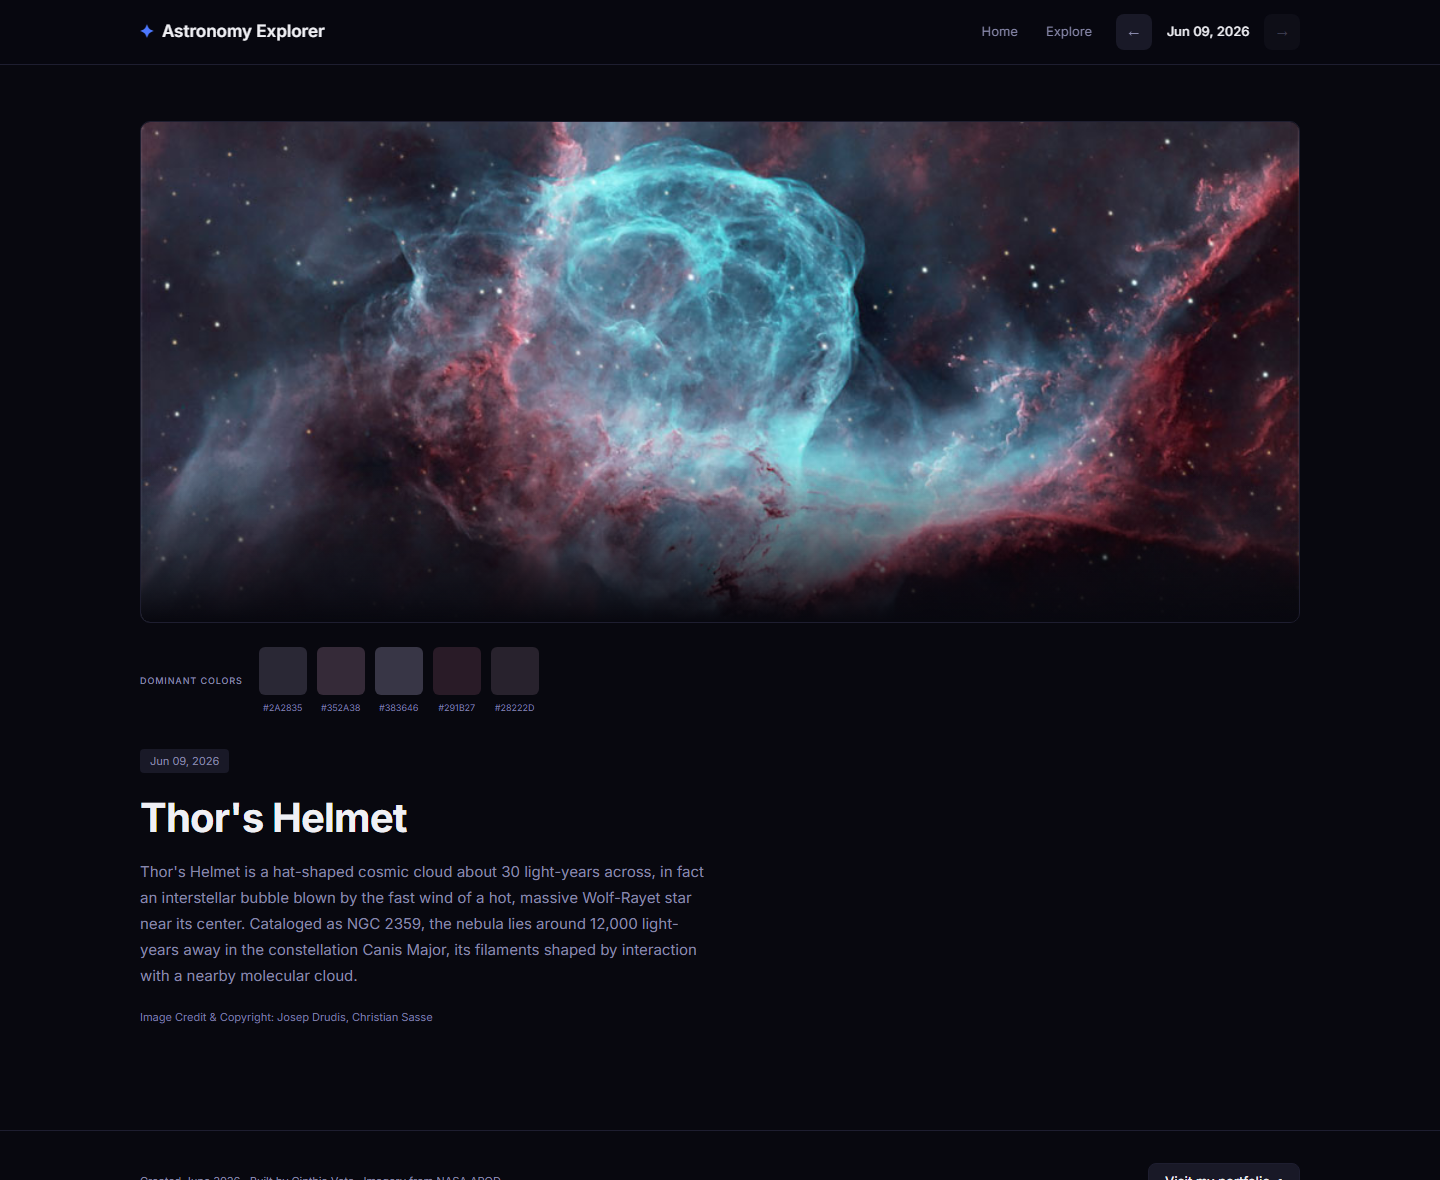
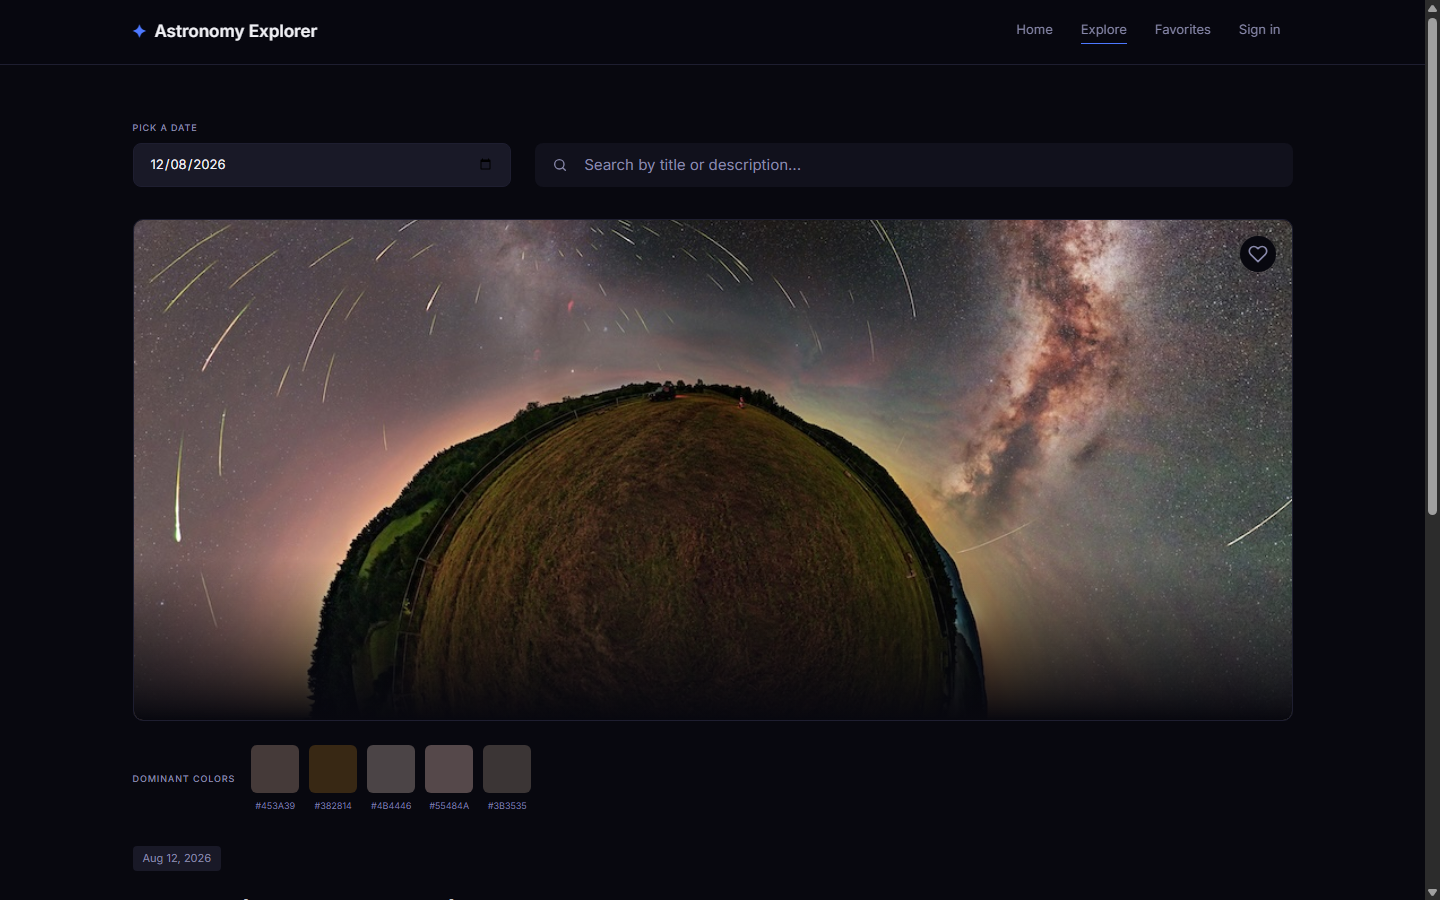
docs: refresh public project README
- describe the shipped portfolio experience and high-level architecture
- replace the obsolete screenshot with an anonymous current Explorer capture
- record P4-W2 completion and verification evidence

diff --git a/README.md b/README.md
@@ -1,107 +1,114 @@
 # Astronomy Picture Explorer
 
-Explore NASA's **Astronomy Picture of the Day (APOD)** in a fast, accessible web
-app: browse the picture of the day, step through the archive by date, watch video
-entries, and see a color palette extracted live from each image — right in the
-browser.
+[Open the live demo](https://astronomy-picture-explorer.netlify.app/)
 
-🔭 **Live demo:** https://astronomy-picture-explorer.netlify.app/
+Astronomy Picture Explorer is a responsive portfolio application for discovering
+NASA's Astronomy Picture of the Day (APOD). It pairs a focused Angular interface
+with an application-owned API, searchable catalog and optional account features
+for saving personal favorites.
 
-🎨 **Design:** [Figma file](https://www.figma.com/design/miqqmNJAcF0Mbe1WizAJIu/01_Astronomy_Picture_Explorer?node-id=0-1&t=N9ZRRaB7gVw4pvpS-1)
+![Explorer view showing date selection, catalog search, an APOD image and its color palette](screenshots/home.png)
 
-![Astronomy Picture Explorer — home view](screenshots/home.png)
+_Anonymous desktop capture of the public production Explorer view, taken on
+2026-08-12. It uses an APOD date available at capture time and contains no account
+or provider data._
 
----
+## What visitors can do
 
-## What it does
+- View the current Astronomy Picture of the Day on Home.
+- Choose an APOD date in Explorer, including image and video entries.
+- Search the prepared catalog by title or explanation without case-sensitive input.
+- Inspect a palette sampled from each displayed image directly in the browser.
+- Create an account, confirm its email, recover a password and save APOD entries to
+  a private favorites list.
+- Use the experience with keyboard focus, descriptive image text and responsive
+  desktop/mobile navigation.
 
-- **Picture of the day** — a hero view with the image, title, date and the full
-  description, plus image credit.
-- **Explore by date** — a native calendar input queries the selected APOD date through
-  the app API; Home keeps its UTC previous/next controls over the displayed picture.
-- **Image *and* video entries** — when an entry is a video, the card shows a
-  thumbnail and a link to watch it (no embedded players).
-- **Live color palette** — the dominant colors of each image are computed in the
-  browser from the picture's pixels and shown as swatches with their hex codes.
-- **Accessible & responsive** — descriptive alt text, keyboard navigation, focus
-  styles, WCAG AA color contrast, and a layout tuned from mobile to desktop.
-- **Keyword search** — debounced title/description search uses the prepared PostgreSQL
-  catalog, with explicit empty, cold-start and catalog-not-ready states.
-- **Accounts and favorites** — sign-in, refresh, protected routes and per-user favorites
-  use same-origin `/auth/*` and `/api/*` calls; browser storage is not the source of
-  truth for favorites.
-
-## Why it exists
-
-A portfolio piece built around a real, recognizable data source. The goal is a
-small but production-quality front end: a clean component architecture, a design
-implemented faithfully from [Figma](https://www.figma.com/design/miqqmNJAcF0Mbe1WizAJIu/01_Astronomy_Picture_Explorer?node-id=0-1&t=N9ZRRaB7gVw4pvpS-1), in-browser image processing, and accessibility
-treated as a first-class concern rather than an afterthought.
-
-## Tech stack
-
-- **Angular 22.0.7** — standalone components and **Signals** for state (no NgModules).
-- **Tailwind CSS v4** — design implemented from [Figma](https://www.figma.com/design/miqqmNJAcF0Mbe1WizAJIu/01_Astronomy_Picture_Explorer?node-id=0-1&t=N9ZRRaB7gVw4pvpS-1) using named design tokens.
-- **Canvas API** — dominant-color extraction performed entirely client-side, with
-  no third-party color libraries.
-- **TypeScript**, unit tests with **Karma + Jasmine**.
-- **ASP.NET Core + PostgreSQL** — app-owned APOD contract, catalog search and account API.
-- **Netlify** — P3 is currently validated from its integration branch through a signed
-  same-origin proxy; Git `main` remains the P2 release until the controlled promotion.
+The app handles loading, empty and retry states deliberately, so a visitor can
+understand when an upstream image or the search catalog is temporarily unavailable.
 
 ## How it works
 
-The P3 integration app reads the app-owned APOD HTTP contract: `/home` requests today's
-entry, Explorer requests exact dates and search uses the PostgreSQL-backed catalog. The
-browser bundles no APOD JSON or date list. A small service exposes a requested date and
-the response-confirmed entry as signals, so stale HTTP results are cancelled rather than
-replacing the current view. For the palette, each image is drawn to an off-screen canvas
-and its pixels are sampled and grouped into the most dominant colors; if the pixels
-can't be read it falls back to a fixed brand palette.
+```mermaid
+flowchart LR
+    Browser["Browser<br/>Angular single-page app"]
+    Routes["Same-origin application routes"]
+    Api["Application API<br/>ASP.NET Core"]
+    Database["PostgreSQL<br/>catalog, accounts and favorites"]
+    Nasa["NASA APOD"]
+    Email["Transactional email"]
 
-## Roadmap
-
-- **Stage 1:** picture of the day, explore by date, palette, video. ✅
-- **Stage 2 — historical production release:** favorites (saved locally), keyword search,
-  responsive toolbar and mobile bottom navigation. ✅
-- **Stage 3 — production validation:** .NET 10 + Identity + PostgreSQL FTS + APOD HTTP
-  frontend, per-user favorites and local containers are validated on the zero-cost stack.
-  The only remaining release action is the controlled promotion to Git `main` after the
-  authorized test-data disposition.
-
-## Run it locally
-
-### Full local stack (recommended)
-
-The Compose stack is entirely local: PostgreSQL, a one-shot migrator, an explicit demo
-fixture seed, API and Angular/Nginx frontend. It includes a local email log sink and a
-deterministic APOD mock, so it does not require NASA, Resend, Neon or a production
-secret. Follow [the local runbook](docs/deploy/p3-local-runbook.md) to create ignored
-Docker-secret files, then run:
-
-```powershell
-docker compose config
-docker compose up -d --build
+    Browser --> Routes --> Api
+    Api --> Database
+    Api --> Nasa
+    Api --> Email
 ```
 
-Open `http://localhost:8080`; API health is additionally available only on
-`http://localhost:5179/health`. `docker compose down` keeps the named local database
-volume; add `-v` only when intentionally discarding local data.
+The browser talks only to the application's public routes. The API retrieves an
+APOD entry when needed, keeps reusable catalog data in PostgreSQL, and associates
+saved entries with the signed-in account. Search uses PostgreSQL full-text search
+across APOD titles and explanations. Email confirmation and password recovery are
+delivered through a transactional email service.
 
-### Frontend-only development
+Operational credentials and deployment configuration are intentionally kept out of
+the repository and out of the browser bundle.
+
+## Stack
+
+- **Angular 22** with standalone components and Signals
+- **Tailwind CSS v4**, TypeScript, Karma and Jasmine
+- **Canvas API** for client-side color palette extraction
+- **ASP.NET Core on .NET 10** with ASP.NET Core Identity
+- **PostgreSQL** with full-text search for the APOD catalog
+- **Docker Compose** for a reproducible local stack
+- **NASA APOD** for astronomy imagery and descriptions
+
+## Run locally
+
+### Frontend development
+
+Install a Node.js version supported by Angular 22, then run:
 
 ```bash
 npm ci
-npm start        # dev server at http://localhost:4200
-npm run build    # production build
-npm test         # unit tests
+npm start
 ```
 
-`npm start` proxies `/api` and `/auth` to the local API at `http://localhost:5179`.
-The public Netlify origin currently serves the validated P3 integration candidate. Git
-`main` remains the P2 release until P3-W14 promotion is intentionally completed.
+Open `http://localhost:4200`. The development server expects the local API when
+calling application routes.
 
-## Credits
+### Full local stack
 
-- Imagery and descriptions: **NASA Astronomy Picture of the Day** (apod.nasa.gov).
-- Built by **[Cinthia Vota](https://cinthiavota.com.ar/)**.
+Docker Desktop is required for the full stack. The supplied Compose setup uses local
+fixtures and a local email log, rather than production services.
+
+1. Copy `.env.example` to `.env` and create the local-only secret files it references
+   with your own development values. Do not commit either `.env` or `.secrets/`.
+2. Validate and start the stack:
+
+   ```powershell
+   docker compose config
+   docker compose up -d --build
+   ```
+
+3. Open `http://localhost:8080`.
+
+Use `docker compose down` to stop the local stack. The more detailed
+[local runbook](docs/deploy/p3-local-runbook.md) explains the local fixtures and
+cleanup options.
+
+## Deployment note
+
+The public demo runs on free-tier infrastructure. After a period without traffic,
+the first request can take longer while the service starts. Retrying once is normally
+enough; no visitor setup is required.
+
+## Credits and usage
+
+- APOD imagery, descriptions and individual credits are provided by
+  [NASA Astronomy Picture of the Day](https://apod.nasa.gov/). Their use remains
+  subject to NASA's guidance and to any credit shown with an individual entry.
+- Product design and implementation: [Cinthia Vota](https://cinthiavota.com.ar/).
+- This repository does not currently include a separate open-source license. The
+  source is presented as a portfolio project; do not assume reuse rights where none
+  are stated.

diff --git a/docs/plans/waves/astronomy-p4-w2-public-readme-wave.md b/docs/plans/waves/astronomy-p4-w2-public-readme-wave.md
@@ -1,7 +1,7 @@
 # Wave P4-W2 - README público y captura actual
 
 Date: 2026-08-12
-Status: PLANNED
+Status: DONE
 Wave ID: `P4-W2`
 Source Phase: `P4`
 Source Phase Plan: `docs/plans/astronomy-p4-documentation-alignment-plan.md`
@@ -22,17 +22,17 @@ captura pública actual, sin convertir el repositorio en documentación de opera
 
 ## Checklist
 
-- [ ] W2.1 Reescribir introducción, funcionalidades y estado de release desde la experiencia
+- [x] W2.1 Reescribir introducción, funcionalidades y estado de release desde la experiencia
   real: APOD, fecha, FTS, palette, cuentas, favoritos, confirmación y recuperación.
-- [ ] W2.2 Documentar Angular, .NET, PostgreSQL, NASA APOD, Docker y proveedores sólo a
+- [x] W2.2 Documentar Angular, .NET, PostgreSQL, NASA APOD, Docker y proveedores sólo a
   nivel de arquitectura, con flujo navegador -> app -> API -> datos/correo sin orígenes
   internos ni configuración sensible.
-- [ ] W2.3 Incluir setup local seguro que derive variables de `.env.example`/dashboards
+- [x] W2.3 Incluir setup local seguro que derive variables de `.env.example`/dashboards
   propios sin valores reales, y describir claramente que los servicios gratuitos pueden
   tener cold start.
-- [ ] W2.4 Reemplazar la captura P1 obsoleta por una captura anónima del UI actual o
+- [x] W2.4 Reemplazar la captura P1 obsoleta por una captura anónima del UI actual o
   retirarla si no puede verificarse visualmente; nunca mostrar sesión, correo o proveedor.
-- [ ] W2.5 Corregir referencias a Figma para que no prometan fidelidad no verificada y
+- [x] W2.5 Corregir referencias a Figma para que no prometan fidelidad no verificada y
   comprobar enlaces/Markdown.
 
 ## Acceptance criteria
@@ -56,4 +56,28 @@ evalúa manualmente para distinguir nombres genéricos de una filtración real.
 
 ## Parent plan sync
 
-- [ ] Marcar R4.2 DONE y registrar el activo final elegido.
+- [x] Marcar R4.2 DONE y registrar el activo final elegido.
+
+## Implementation record (2026-08-12)
+
+- Replaced `screenshots/home.png` with an anonymous 1440×900 desktop capture of the
+  public, deployed Explorer view. The capture was made with a temporary browser profile,
+  selected an APOD date available at capture time, and contains no authenticated session,
+  personal data or provider/dashboard content. The established filename remains for link
+  stability; the README alt text and caption identify it as Explorer.
+- Rewrote the public README around the shipped P3 experience: APOD browsing, date and
+  catalog search, palette, accounts, favorites, accessibility and responsive navigation.
+- Added a high-level browser-to-application architecture diagram, safe local setup,
+  free-tier cold-start note, technology summary and NASA/portfolio attribution. It omits
+  operational origins, credentials, provider configuration, security internals and test
+  identities.
+
+## Verification record (2026-08-12)
+
+- Visual inspection passed for the replacement capture at desktop size: current primary
+  navigation, Explorer-active state, date-first/search-second layout, APOD media and
+  palette are visible; no account or provider data appears.
+- `npm run build` passed. Angular reported existing stylesheet selector warnings, with no
+  build failure.
+- `git diff --check` and the focused sensitive-pattern review passed; generic local
+  `.env`/secret-file guidance is intentional and contains no real value.

diff --git a/docs/plans/astronomy-p4-documentation-alignment-plan.md b/docs/plans/astronomy-p4-documentation-alignment-plan.md
@@ -1,7 +1,7 @@
 # Phase Plan P4 - Documentación pública y alineación de release
 
 Date: 2026-08-12
-Status: IN PROGRESS - P4-W1 DONE
+Status: IN PROGRESS - P4-W1 AND P4-W2 DONE
 Phase: `P4`
 Source master plan: `docs/plans/astronomy-master-plan.md`
 Documentation boundary: `docs/adr/0004-public-documentation-boundaries.md`
@@ -64,7 +64,7 @@ operación o seguridad.
 ## 5. Requirements checklist
 
 - [x] **R4.1** Registrar cutover P3, estado canónico e inventario documental (W1).
-- [ ] **R4.2** Reescribir README público y reemplazar/remover la captura obsoleta (W2).
+- [x] **R4.2** Reescribir README público y reemplazar la captura obsoleta (W2).
 - [ ] **R4.3** Alinear documentación técnica y operacional P3 sin exponer datos sensibles
   (W3).
 - [ ] **R4.4** Añadir aclaraciones históricas y corroborar los flujos documentados (W4).
@@ -80,7 +80,7 @@ directos.
 
 | Clase | Artefactos relevantes y hallazgo actual | Responsable |
 |---|---|---|
-| Pública | `README.md` aún describe la experiencia pre-P3/local; `screenshots/home.png` representa UI anterior. | P4-W2 reemplaza el relato público y la captura anónima. |
+| Pública | `README.md` describe la experiencia P3 publicada; `screenshots/home.png` contiene una captura anónima actual de Explorer. | P4-W2 DONE; W5 vuelve a comprobar enlaces y activo. |
 | Técnica, canónica | PRD, readiness, master, plan P3, ADR-0003, flow overview, P3-W14 y P3-W15 ahora registran P3 como DONE. | P4-W3 revisa redacción, contratos y enlaces contra la implementación actual. |
 | Técnica, de apoyo | `backend/README.md`, runbooks local/deploy/setup y política de framework omiten o anteceden partes de P3, incluida recuperación de contraseña y cierre de proveedores. | P4-W3 los alinea y sanea. |
 | Operativa, saneada | `docs/deploy/p3-deploy-runbook.md` preserva evidencia fechada de smoke y el cierre P4-W1. | P4-W3 elimina detalle operativo innecesario y conserva guía segura reproducible. |
@@ -98,7 +98,7 @@ configuración de la aplicación.
 | Wave | Dependencia | Resultado acotado |
 |---|---|---|
 | P4-W1 | P3 cutover | Evidencia post-cutover + estados P3 sincronizados + inventario ✅ |
-| P4-W2 | W1 | README público actual, captura anónima y guía local segura |
+| P4-W2 | W1 | README público actual, captura anónima y guía local segura ✅ |
 | P4-W3 | W1 | Contratos y runbooks P3 alineados y sanitizados |
 | P4-W4 | W1 + W3 | Aclaraciones P1/P2 y revisión de flujos documentados |
 | P4-W5 | W2 + W3 + W4 | Auditoría final, gates y promoción P4 |
